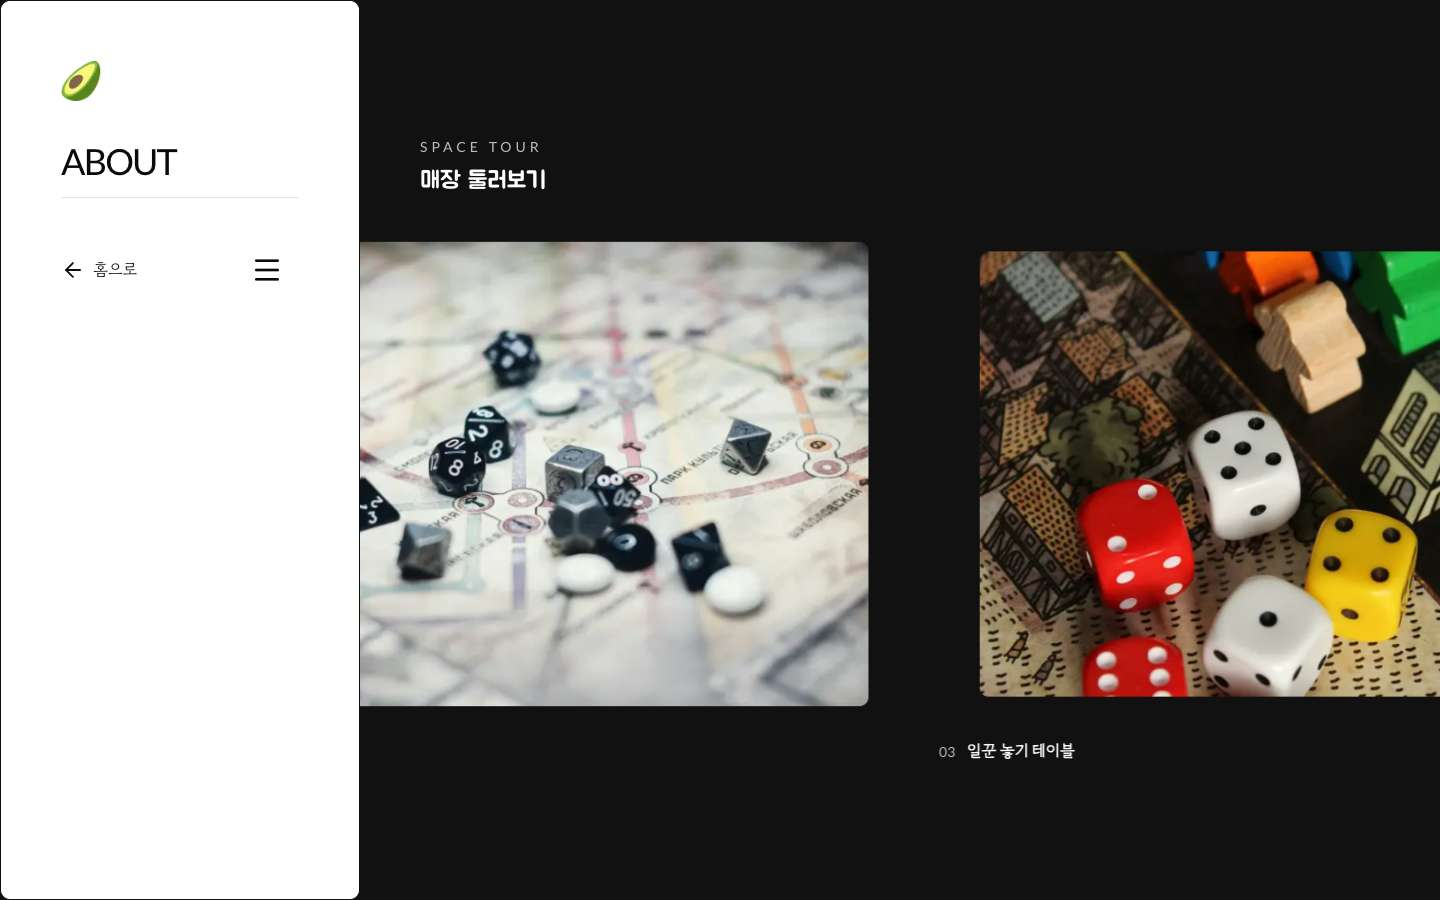
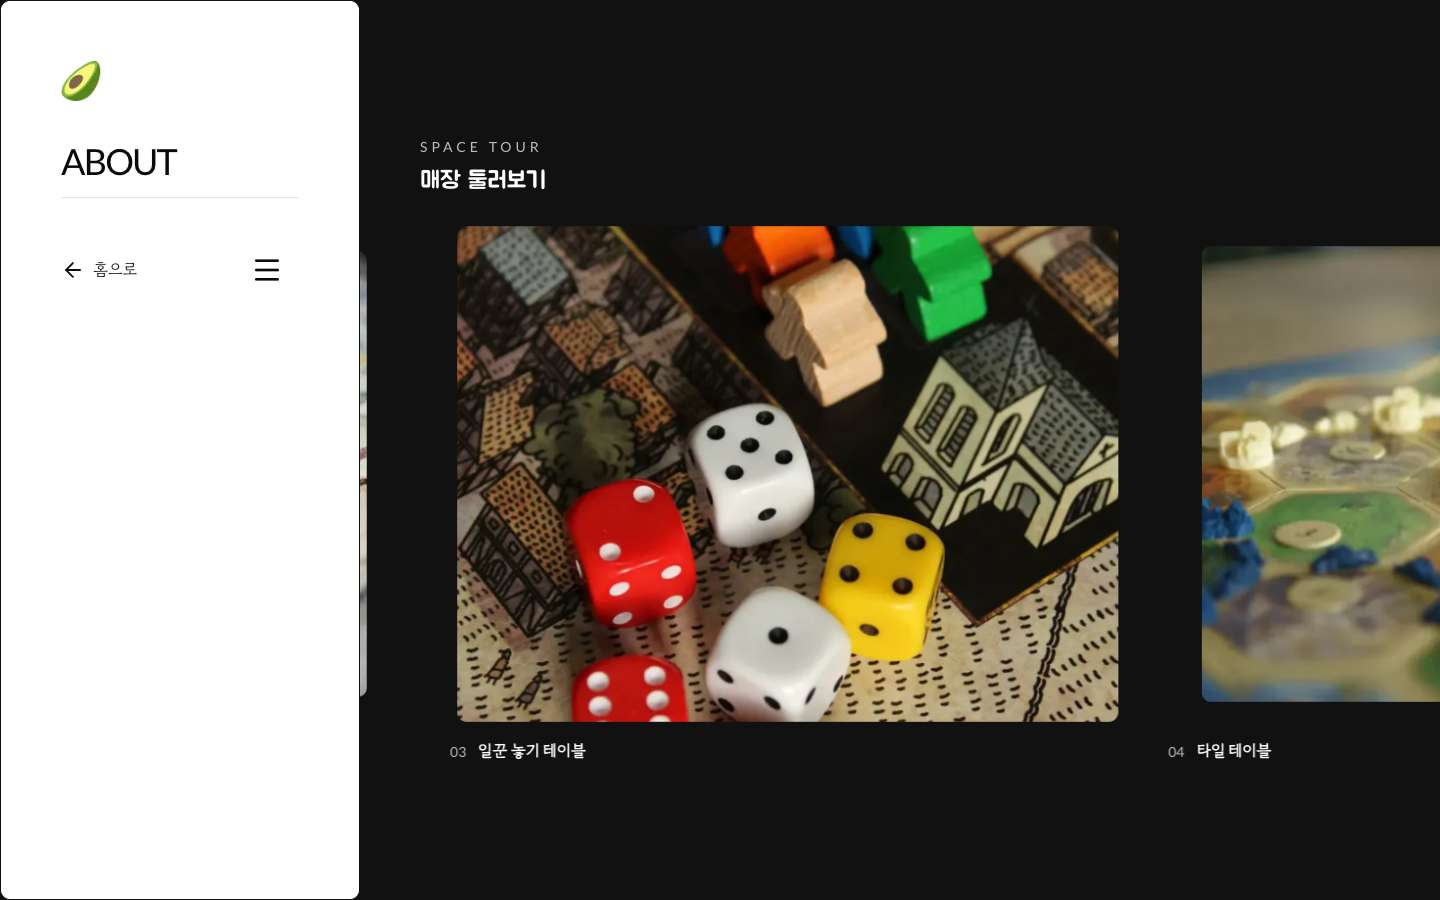
fix(web): 매장 둘러보기 사진 확대를 세로 스크롤 진행에 연결

diff --git a/apps/web/src/views/about/ui/store-tour.tsx b/apps/web/src/views/about/ui/store-tour.tsx
@@ -1,4 +1,5 @@
 import Image from "next/image";
+import type { CSSProperties } from "react";
 
 import { HERO_IMAGES } from "@/shared/config/site";
 
@@ -23,7 +24,12 @@ export function StoreTour() {
         </div>
         <ol className="store-tour-track">
           {HERO_IMAGES.map((image, i) => (
-            <li key={image.src} className="store-tour-room">
+            <li
+              key={image.src}
+              className="store-tour-room"
+              // 몇 번째 사진인지 알려 주어, 세로 스크롤 진행에서 이 사진이 가운데 오는 구간을 계산한다.
+              style={{ "--i": i, "--n": HERO_IMAGES.length } as CSSProperties}
+            >
               <div className="store-tour-photo">
                 <Image src={image.src} alt={image.alt} fill sizes="(min-width: 1024px) 50vw, 85vw" className="object-cover" />
               </div>

diff --git a/apps/web/src/app/globals.css b/apps/web/src/app/globals.css
@@ -163,13 +163,17 @@
     .store-tour-room {
       width: min(70cqw, 75svh);
       flex: none;
-      view-timeline: --room inline;
     }
 
+    /*
+     * 뷰 타임라인은 transform으로 옮긴 위치를 보지 않으므로, 사진 확대도 세로 스크롤(--tour)에 건다.
+     * 사진 i가 가운데 오는 지점(i / (n - 1))을 중심으로 앞뒤 25% 구간에서 커졌다 작아진다.
+     */
     .store-tour-photo {
+      --center: calc(var(--i) / (var(--n) - 1) * 100%);
       animation: room-focus linear both;
-      animation-timeline: --room;
-      animation-range: cover 0% cover 100%;
+      animation-timeline: --tour;
+      animation-range: contain calc(var(--center) - 25%) contain calc(var(--center) + 25%);
     }
   }
 }

diff --git a/README.md b/README.md
@@ -50,7 +50,7 @@
 
 | 홈 유형 사진 (스크롤로 펼쳐짐) | 매장 둘러보기 (스크롤로 옆으로 이동) |
 |---|---|
-| ![유형 소개 사이의 붉은 용 피규어 사진이 화면 폭 가득 펼쳐진 홈](docs/images/web-space.jpg) | ![어두운 화면에 고정된 매장 둘러보기에서 주사위 사진들이 옆으로 이어지는 소개 화면](docs/images/web-tour.jpg) |
+| ![유형 소개 사이의 붉은 용 피규어 사진이 화면 폭 가득 펼쳐진 홈](docs/images/web-space.jpg) | ![어두운 화면에 고정된 매장 둘러보기에서 가운데 온 주사위 사진이 크게, 양옆 사진은 작게 보이는 소개 화면](docs/images/web-tour.jpg) |
 
 ## 주요 기능
 
